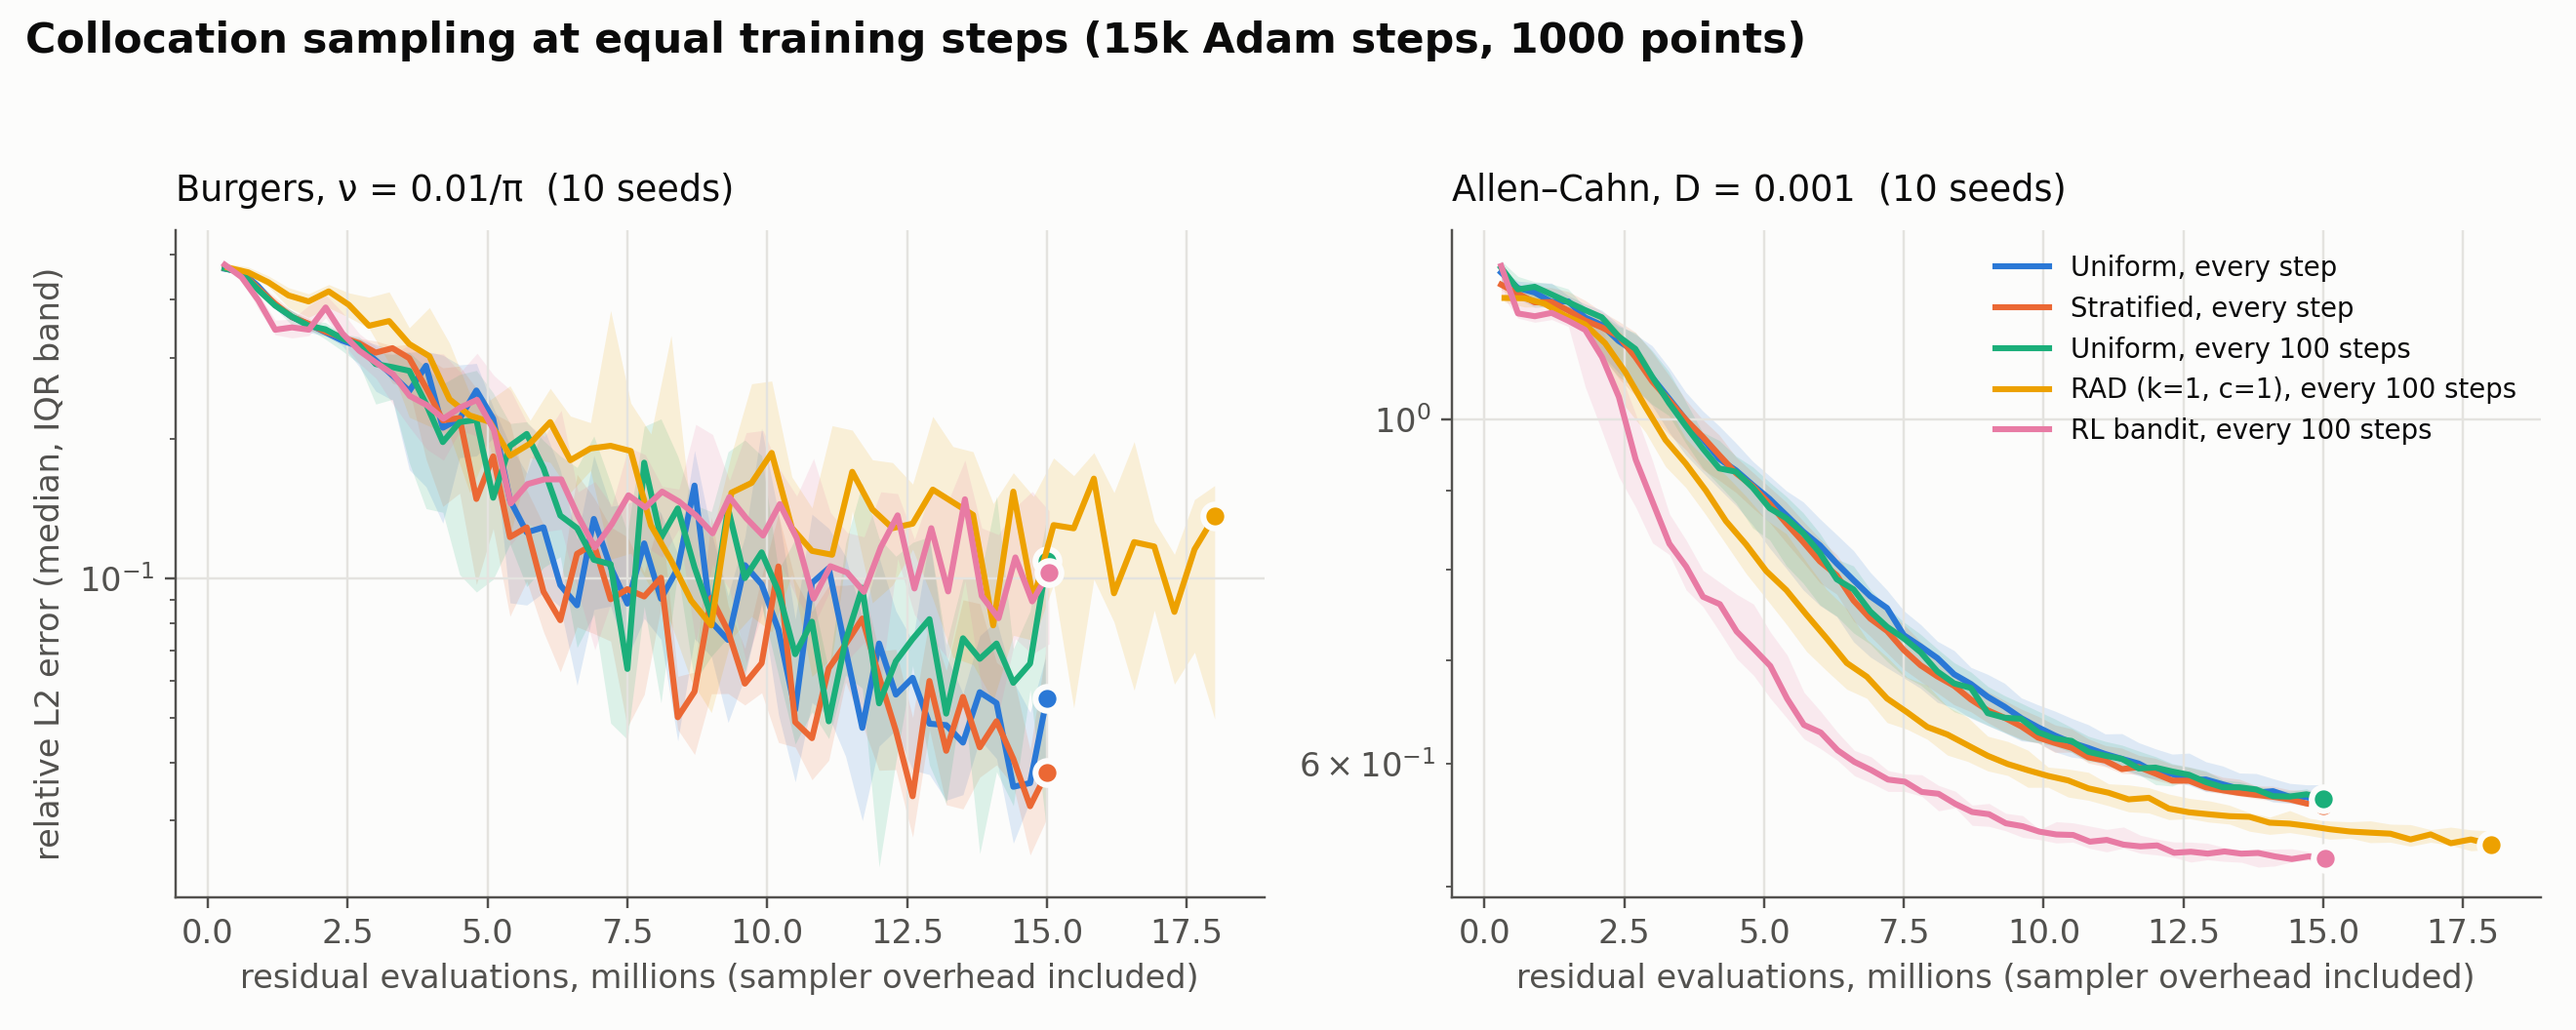
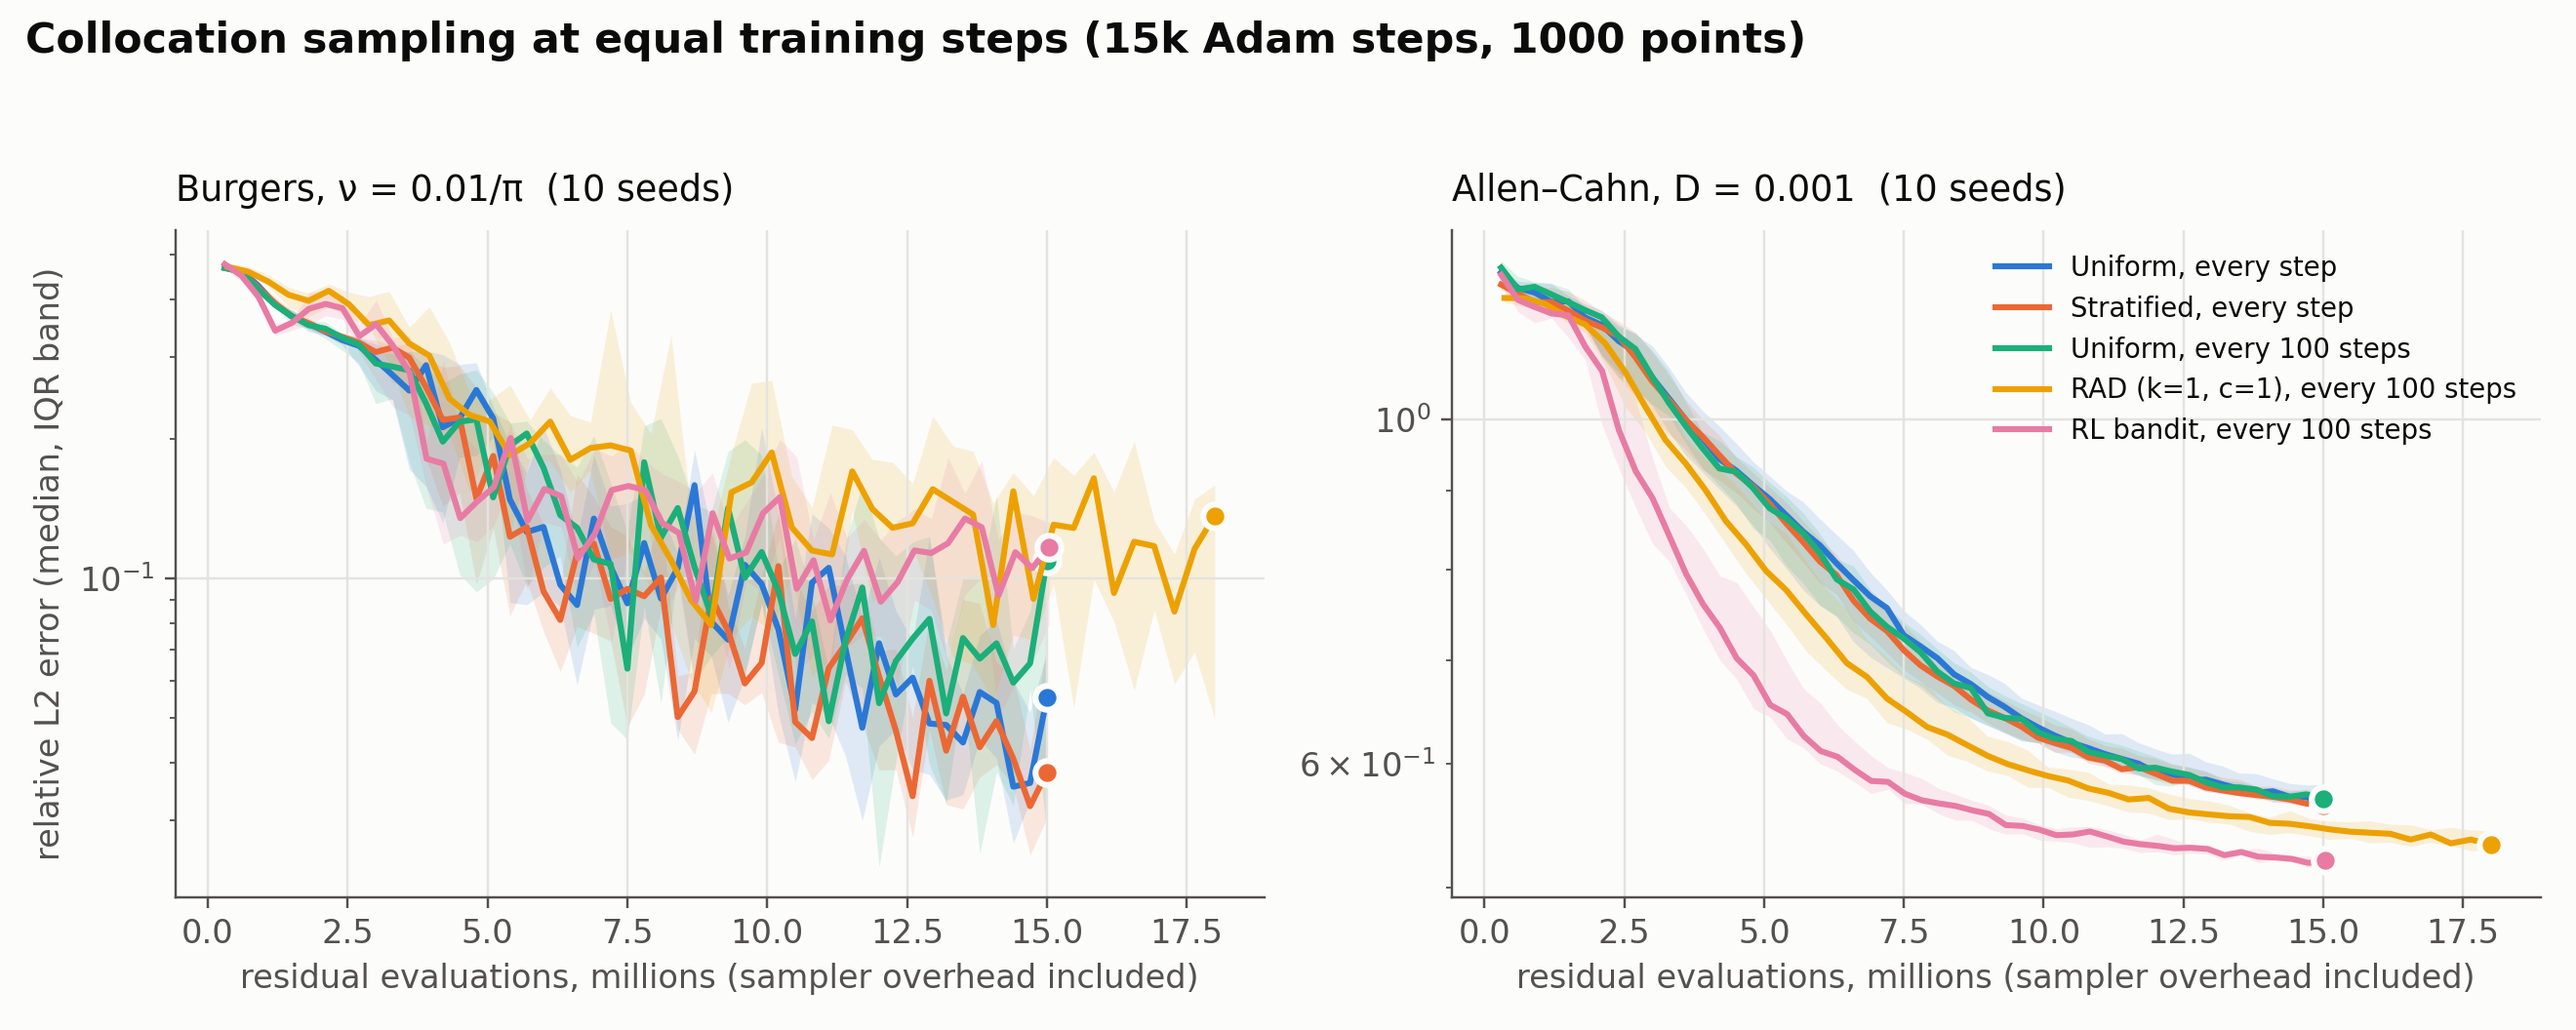
docs(experiments): B01 bandit arm re-run with seeded replay
The bandit's 20 B01 runs are re-run now that its replay batches follow the
seed, so the published numbers reproduce. Conclusions are unchanged:
- Burgers: 0.117 at equal steps (1/10 seeds, p = 0.064); significantly
  worse than uniform at equal evaluations (p = 0.014).
- Allen–Cahn: 0.520 / 0.518, 10/10 seeds, p = 0.002. The bandit reaches
  0.7 with 43 % fewer evaluations than uniform (4.8 M vs 8.4 M).
The RAD Burgers median is corrected to 0.136 (it was rounded from
1.365e-01). The figure is regenerated.

Notebook 02 describes the corrected fourier network: 1.5x the parameters
of feedforward, and now first in the single-seed ranking. The workshop
notebook uses a raw string for a LaTeX title (it raised a SyntaxWarning).

Claude-Session: https://claude.ai/code/session_013iiDLUHfnB2UEgGPY4Xgda

diff --git a/experiments/B01_sampling_equal_compute/README.md b/experiments/B01_sampling_equal_compute/README.md
@@ -15,7 +15,7 @@ Do adaptive collocation samplers (RAD, the RL bandit) beat uniform sampling, at 
   - `uniform_periodic`, `rad` (k = 1, c = 1, pool of 20 × the batch) and `rl_bandit` refresh every 100 steps.
   - `uniform_periodic` is the control that separates resampling frequency from adaptivity.
 - **Seeds:** 10. A seed fixes the initial weights, which are identical across samplers, so comparisons are paired. 50 checkpoints per run record the relative L2 error, the training wall-clock, and the residual evaluations including sampler overhead. RAD spends 20 % more evaluations than uniform; the bandit spends 0.26 % more.
-- **Code:** `pinnrl/benchmarks/sampling_study.py` at the commit that adds this folder. The bandit arm was re-run after the dropout fix (`results/rl_bandit_pre_fix_curves.json` keeps the original bandit runs).
+- **Code:** `pinnrl/benchmarks/sampling_study.py` at the commit that adds this folder. The bandit arm was re-run twice. The first re-run followed the dropout fix (`results/rl_bandit_pre_fix_curves.json` keeps the original runs). The second followed seeding its replay batches from torch, so a bandit run now repeats for a given seed (`results/rl_bandit_unseeded_curves.json` keeps the unseeded runs, which reach the same conclusions).
 
 Rerun with:
 
@@ -36,20 +36,20 @@ Relative L2 error, as the median [IQR] over 10 seeds. "Beats uniform" counts pai
 | Burgers | uniform | 0.055 [0.038, 0.069] | – | – | 0.055 | – | – |
 | | stratified | 0.038 [0.030, 0.072] | 6/10 | 0.63 | 0.038 | 6/10 | 0.63 |
 | | uniform, every 100 | 0.109 [0.028, 0.136] | 4/10 | 0.16 | 0.109 | 4/10 | 0.16 |
-| | RAD | 0.137 [0.050, 0.159] | 3/10 | 0.11 | 0.090 | 2/10 | 0.064 |
-| | RL bandit | 0.103 [0.072, 0.140] | 3/10 | 0.16 | 0.089 | 3/10 | **0.027** (uniform better) |
+| | RAD | 0.136 [0.050, 0.159] | 3/10 | 0.11 | 0.090 | 2/10 | 0.064 |
+| | RL bandit | 0.117 [0.080, 0.132] | 1/10 | 0.064 | 0.105 | 2/10 | **0.014** (uniform better) |
 | Allen–Cahn | uniform | 0.568 [0.561, 0.582] | – | – | 0.568 | – | – |
 | | stratified | 0.564 [0.562, 0.576] | 5/10 | 0.77 | 0.564 | 5/10 | 0.77 |
 | | uniform, every 100 | 0.570 [0.566, 0.572] | 4/10 | 0.92 | 0.570 | 4/10 | 0.92 |
 | | RAD | 0.533 [0.529, 0.543] | **10/10** | **0.002** | 0.547 | **10/10** | **0.002** |
-| | RL bandit | 0.522 [0.515, 0.524] | **10/10** | **0.002** | 0.523 | **10/10** | **0.002** |
+| | RL bandit | 0.520 [0.516, 0.523] | **10/10** | **0.002** | 0.518 | **10/10** | **0.002** |
 
-Against the same-cadence control (`uniform_periodic`), RAD and the bandit are not significantly different on Burgers (p ≥ 0.1, under both the final error and the median of the last 5 checkpoints). On Allen–Cahn they win on 10/10 seeds (p = 0.002).
+Against the same-cadence control (`uniform_periodic`) on Burgers, RAD is not significantly different (p ≥ 0.13, under both the final error and the median of the last 5 checkpoints). Neither is the bandit by final error (p = 0.77). By the last-5 median it is borderline worse (better on 3/10 seeds, p = 0.049), which does not survive correction for the several comparisons made here. On Allen–Cahn both win on 10/10 seeds (p = 0.002).
 
 ## Conclusion
 
-1. **Burgers: no sampler is significantly better than uniform at this budget.** Optimizer noise dominates. Final errors vary 6× across seeds, and the error moves by a factor of about 1.7 between consecutive checkpoints of a single run, because Adam at a constant learning rate never settles. Once its probe cost is charged, the bandit is significantly *worse* than fresh uniform points (p = 0.027).
-2. **Allen–Cahn: adaptive sampling is consistently better, but not useful yet.** RAD and the bandit beat uniform on every seed, and the bandit reaches a relative error of 0.7 with about 40 % fewer evaluations than uniform (5.1 M vs 8.4 M). But every method stays in the failure regime (relative L2 ≈ 0.52–0.57). The PINN converges to the wrong, metastable solution whichever sampler is used.
+1. **Burgers: no sampler is significantly better than uniform at this budget.** Optimizer noise dominates. Final errors vary 6× across seeds, and the error moves by a factor of about 1.7 between consecutive checkpoints of a single run, because Adam at a constant learning rate never settles. Once its probe cost is charged, the bandit is significantly *worse* than fresh uniform points (p = 0.014).
+2. **Allen–Cahn: adaptive sampling is consistently better, but not useful yet.** RAD and the bandit beat uniform on every seed, and the bandit reaches a relative error of 0.7 with about 40 % fewer evaluations than uniform (4.8 M vs 8.4 M). But every method stays in the failure regime (relative L2 ≈ 0.52–0.57). The PINN converges to the wrong, metastable solution whichever sampler is used.
 3. **Resampling frequency is a confound.** On Burgers, uniform refreshed every 100 steps is worse than fresh points every step (median 0.109 vs 0.055, n.s.). Part of any "adaptive vs uniform" difference reported in the literature may come from resampling cadence rather than adaptivity.
 
 **Consequences for the backlog:**

diff --git a/CHANGELOG.md b/CHANGELOG.md
@@ -16,6 +16,7 @@ A correctness release. A physics audit, a code review and a clean-install releas
 ### Fixed: results change
 - **2-D PDEs trained without their spatial operator.** n-D gradients and Laplacians were taken with respect to a column slice, so autograd returned zeros, and `heat_2d` and every 2-D PDE trained with `∇²u ≡ 0`. There is now one `PDEBase.compute_derivatives` with `_grad`/`laplacian` helpers.
 - **The RL sampler (`--rl`, `strategy="adaptive"`) never learned.** Its DQN was never trained. In the trainer path the agent was never attached, so `--rl` ran uniform sampling. In the benchmark path every point collapsed to one corner of the domain. It is replaced by `ResidualBanditSampler`, an experimental contextual bandit that is verified to learn.
+- **The bandit's replay batches ignored the seed.** They came from Python's unseeded `random`, so a bandit run with a fixed seed differed between processes. They now follow `torch.manual_seed`.
 - **Exact solutions corrected and verified** against their PDE, IC and BCs: wave (standing, not travelling), convection (`u0(x − vt)`), KdV (soliton speed; `alpha`/`beta` now used), Allen–Cahn (√2 interface width; `reaction_rate` used), Cahn–Hilliard (`mobility`/`kappa` used; stationary kink), Black–Scholes (time to maturity, the real normal CDF, `strike` read), pendulum (nonlinear damped ODE; `damping` used; `θ'(0)` enforced), Burgers (Cole–Hopf for `A·sin(kπx)`; `viscosity` alias).
 - **Boundary and initial conditions.**
   - Neumann now constrains `u_x`; it was a Dirichlet condition in disguise.

diff --git a/docs/benchmarks.md b/docs/benchmarks.md
@@ -41,11 +41,11 @@ pinnrl-benchmark sampling --seeds 10 --steps 15000 --checkpoints 50 --workers 4
 |---|---|---|---|---|---|
 | Burgers | uniform | 0.055 | – | 0.055 | – |
 | | stratified | 0.038 | 6/10, p = 0.63 | 0.038 | 6/10, p = 0.63 |
-| | RAD | 0.137 | 3/10, p = 0.11 | 0.090 | 2/10, p = 0.06 |
-| | RL bandit | 0.103 | 3/10, p = 0.16 | 0.089 | 3/10, **p = 0.03 (worse)** |
+| | RAD | 0.136 | 3/10, p = 0.11 | 0.090 | 2/10, p = 0.06 |
+| | RL bandit | 0.117 | 1/10, p = 0.06 | 0.105 | 2/10, **p = 0.01 (worse)** |
 | Allen–Cahn | uniform | 0.568 | – | 0.568 | – |
 | | RAD | 0.533 | **10/10, p = 0.002** | 0.547 | **10/10, p = 0.002** |
-| | RL bandit | 0.522 | **10/10, p = 0.002** | 0.523 | **10/10, p = 0.002** |
+| | RL bandit | 0.520 | **10/10, p = 0.002** | 0.518 | **10/10, p = 0.002** |
 
 Errors are medians over 10 seeds; "6/10" counts the seeds on which the sampler beat uniform; p is from a Wilcoxon signed-rank test.
 
